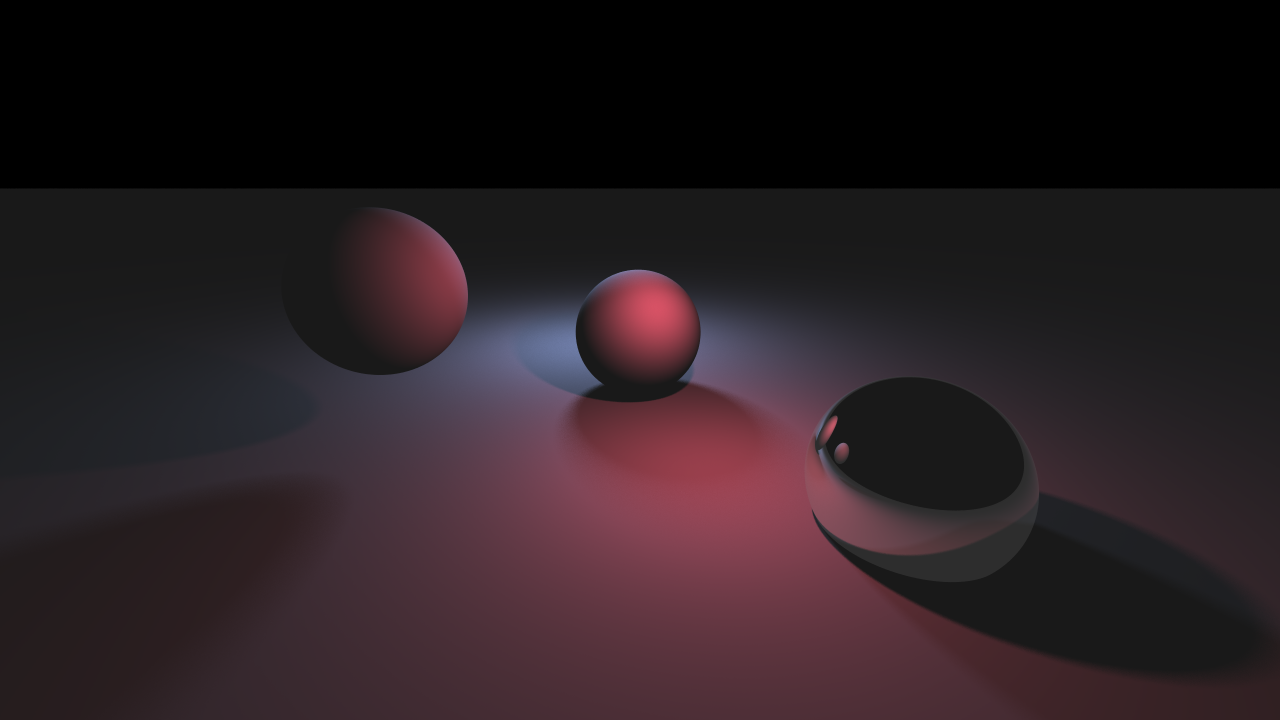
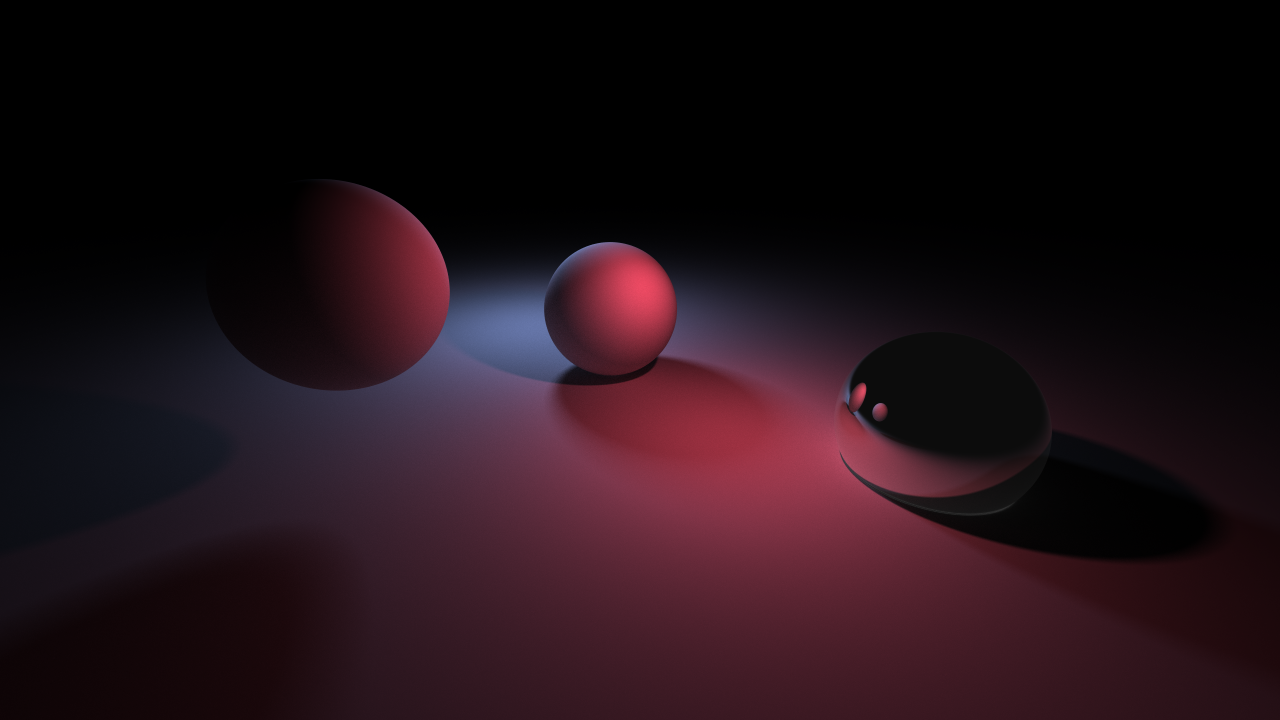
Add global illumination

diff --git a/src/tracey/graphics/shaders/shaders.cpp b/src/tracey/graphics/shaders/shaders.cpp
@@ -8,6 +8,7 @@
 #include "../../geometry/intersection.hpp"
 #include "../../engine/accelerator.hpp"
 #include "../shader_data.hpp"
+#include "../../util/math_util.hpp"
 
 namespace trc {
 
@@ -19,6 +20,58 @@ TRC_DEFINE_SHADER(ShaderPreview) {
 
     return glm::vec4 {glm::vec3 {value}, 1.f};
 }
+
+TRC_DEFINE_SHADER(ShaderLightDirect) {
+    glm::vec3 light = shader_data.accelerator->calc_light_influence(shader_data.pos, shader_data.normal, shader_data.rng);
+    return glm::vec4 {light, 1.f};
+}
+
+TRC_DEFINE_SHADER(ShaderDiffuseDirect) {
+    return shader_data.shader_pack->shader_light_direct->evaluate(shader_data);
+}
+
+TRC_DEFINE_SHADER(ShaderDiffuseIndirect) {
+    glm::vec3 color;
+
+    if (shader_data.ray.index > TRC_RAY_MAX_BOUNCES) color = glm::vec4 {0.f, 0.f, 0.f, 1.f};
+    else {
+        Ray diffuse_ray {
+            shader_data.pos,
+            math::random_dir_in_hemisphere(shader_data.normal, shader_data.rng),
+            TRC_DIFFUSE_RAY,
+            shader_data.ray.index + 1
+        };
+
+        std::optional<Intersection> isect = shader_data.accelerator->calc_intersection(diffuse_ray);
+        if (isect) {
+            ShaderData diffuse_shader_data {
+                isect.value().pos,
+                isect.value().normal,
+                isect.value().tex_coord,
+                shader_data.distance + isect.value().distance,
+                diffuse_ray,
+                shader_data.accelerator,
+                shader_data.shader_pack,
+                shader_data.rng
+            };
+            color = isect.value().shader->evaluate(diffuse_shader_data);
+        }
+        else color = glm::vec4 {0.f, 0.f, 0.f, 1.f};
+    }
+
+    return glm::vec4 {color, 1.f};
+}
+
+TRC_DEFINE_SHADER(ShaderDiffuse) {
+    if (glm::dot(shader_data.normal, -shader_data.ray.direction) < 0.f)
+        return glm::vec4 {glm::vec3 {0.f}, 1.f};
+
+    glm::vec3 direct = shader_data.shader_pack->shader_diffuse_direct->evaluate(shader_data).rgb();
+    glm::vec3 indirect = shader_data.shader_pack->shader_diffuse_indirect->evaluate(shader_data).rgb();
+    // if (shader_data.ray.type == TRC_CAMERA_RAY) direct *= 0.f;
+    return glm::vec4 {direct + indirect, 1.f};
+}
+
 
 TRC_DEFINE_SHADER(ShaderRed) {
     return glm::vec4 {1.f, 0.f, 0.f, 1.f};
@@ -52,12 +105,13 @@ TRC_DEFINE_SHADER(ShaderChecker) {
 TRC_DEFINE_SHADER(ShaderReflect) {
     glm::vec3 color;
 
-    if (shader_data.ray.index > TRC_RAY_MAX_BOUNCES) color = glm::vec4 {0.f, 0.f, 0.f, 1.f};
+    if (shader_data.ray.index > TRC_RAY_MAX_BOUNCES || glm::dot(shader_data.normal, -shader_data.ray.direction) < 0.f)
+        color = glm::vec4 {0.f, 0.f, 0.f, 1.f};
     else {
         Ray reflect_ray {
             shader_data.pos,
             glm::reflect(shader_data.ray.direction, shader_data.normal),
-            TRC_COMMON_RAY,
+            TRC_SPECULAR_RAY,
             shader_data.ray.index + 1
         };
 
@@ -78,7 +132,7 @@ TRC_DEFINE_SHADER(ShaderReflect) {
         else color = glm::vec4 {0.f, 0.f, 0.f, 1.f};
     }
 
-    color = color * 0.8f + 0.1f;
+    color = color * 0.9f + 0.05f;
     return glm::vec4 {color, 1.f};
 }
 

diff --git a/src/tracey/engine/engine.cpp b/src/tracey/engine/engine.cpp
@@ -16,13 +16,13 @@ namespace trc {
 Engine::Engine(UserConfig cfg) : cfg(cfg), error(0), preview_mode(true) {}
 
 int Engine::run() {
-    scene.add_object(std::unique_ptr<Shape>(new GroundPlane(0.f, shader_pack.shader_shadows.get())));
-    scene.add_object(std::unique_ptr<Shape>(new Sphere(glm::vec3 {0.f, 1.0f, 0.f}, 1.f, shader_pack.shader_shadows.get())));
-    scene.add_object(std::unique_ptr<Shape>(new Sphere(glm::vec3 {3.f, 2.0f, 2.f}, 1.f, shader_pack.shader_shadows.get())));
+    scene.add_object(std::unique_ptr<Shape>(new GroundPlane(0.f, shader_pack.shader_diffuse.get())));
+    scene.add_object(std::unique_ptr<Shape>(new Sphere(glm::vec3 {0.f, 1.0f, 0.f}, 1.f, shader_pack.shader_diffuse.get())));
+    scene.add_object(std::unique_ptr<Shape>(new Sphere(glm::vec3 {3.f, 2.0f, 2.f}, 1.f, shader_pack.shader_diffuse.get())));
     scene.add_object(std::unique_ptr<Shape>(new Sphere(glm::vec3 {2.f, 0.5f, -4.f}, 1.f, shader_pack.shader_reflect.get())));
     scene.add_light(std::unique_ptr<Light>(new PointLight(glm::vec3 {-2.f, 4.0f, 2.f}, glm::vec3 {0.6f, 0.7f, 1.0f}, 10.f, 0.5f)));
     scene.add_light(std::unique_ptr<Light>(new PointLight(glm::vec3 {2.f, 3.0f, -2.f}, glm::vec3 {1.0f, 0.3f, 0.4f}, 5.f, 0.1f)));
-    // scene.add_light(std::unique_ptr<Light>(new SunLight(glm::vec3 {-1.f, -1.f, -1.f}, glm::vec3 {1.f, 0.95f, 0.95f}, 0.9f, 2.f)));
+    // scene.add_light(std::unique_ptr<Light>(new SunLight(glm::vec3 {-1.f, -1.f, -1.f}, glm::vec3 {1.f, 0.95f, 0.95f}, 1.0f, 2.f)));
 
     accelerator = Accelerator {&scene};
     window_manager = WindowManager {cfg.window_size};
@@ -98,7 +98,7 @@ int Engine::render_image(glm::ivec2 image_size, int samples, std::mt19937 *seed_
     float sample_rate = 1.f;
 
     int sample = 0;
-    while (!input.r && !window_manager.window_should_close() && sample < samples) {
+    while (!input.i && !window_manager.window_should_close() && sample < samples) {
 
         ++sample;
         sampler.render_image_sample(
@@ -121,9 +121,10 @@ int Engine::render_image(glm::ivec2 image_size, int samples, std::mt19937 *seed_
             sample_rate
         );
 
-        if (sample >= samples) {
+        if (sample >= samples || input.r) {
             if (image_rw::write_png(sampler.get_image(), "render_result.png") == 0)
                 return_code = 1;
+            break;
         }
 
         this_t = glfwGetTime();

diff --git a/src/tracey/util/math_util.cpp b/src/tracey/util/math_util.cpp
@@ -1,0 +1,35 @@
+#include "math_util.hpp"
+
+namespace trc::math {
+
+float fast_inv_sqrt(float number) {
+    union {
+        float f;
+        uint32_t i;
+    } conv;
+
+    float x2;
+    const float threehalfs = 1.5F;
+
+    x2 = number * 0.5F;
+    conv.f = number;
+    conv.i = 0x5f3759df - (conv.i >> 1);
+    conv.f = conv.f * (threehalfs - (x2 * conv.f * conv.f));
+    return conv.f;
+}
+
+glm::vec3 random_dir_in_hemisphere(glm::vec3 normal, RNG *rng) {
+    std::normal_distribution distrib;
+
+    glm::vec3 dir {
+        distrib(*rng),
+        distrib(*rng),
+        distrib(*rng)
+    };
+
+    dir *= glm::sign(glm::dot(dir, normal));
+
+    return dir * fast_inv_sqrt(dir.x*dir.x + dir.y*dir.y * dir.z*dir.z);
+}
+
+} /* trc::math */

diff --git a/src/tracey/graphics/shader_pack.cpp b/src/tracey/graphics/shader_pack.cpp
@@ -5,6 +5,11 @@ namespace trc {
 ShaderPack::ShaderPack()
     : shader_default(std::unique_ptr<Shader>(new Shader())),
       shader_preview(std::unique_ptr<Shader>(new ShaderPreview())),
+      shader_light_direct(std::unique_ptr<Shader>(new ShaderLightDirect())),
+      shader_diffuse_direct(std::unique_ptr<Shader>(new ShaderDiffuseDirect())),
+      shader_diffuse_indirect(std::unique_ptr<Shader>(new ShaderDiffuseIndirect())),
+      shader_diffuse(std::unique_ptr<Shader>(new ShaderDiffuse())),
+
       shader_red(std::unique_ptr<Shader>(new ShaderRed())),
       shader_normal(std::unique_ptr<Shader>(new ShaderNormal())),
       shader_distance(std::unique_ptr<Shader>(new ShaderDistance())),

diff --git a/src/tracey/engine/console.cpp b/src/tracey/engine/console.cpp
@@ -85,7 +85,8 @@ void Console::print_render_info(float frequency, float delta_t, int sample, int 
         s << "Controls" << '\n';
         s << " ESC:          Quit" << '\n';
         s << " ENTER:        Toggle mouse focus" << '\n';
-        s << " R:            Stop render" << '\n';
+        s << " R:            Save rendered image" << '\n';
+        s << " I:            Interrupt render without saving" << '\n';
 
         clear();
         printf("%s\n", s.str().c_str());

diff --git a/src/tracey/graphics/shader_pack.hpp b/src/tracey/graphics/shader_pack.hpp
@@ -12,6 +12,10 @@ struct ShaderPack {
 
     std::unique_ptr<Shader> shader_default;
     std::unique_ptr<Shader> shader_preview;
+    std::unique_ptr<Shader> shader_light_direct;
+    std::unique_ptr<Shader> shader_diffuse_direct;
+    std::unique_ptr<Shader> shader_diffuse_indirect;
+    std::unique_ptr<Shader> shader_diffuse;
 
     std::unique_ptr<Shader> shader_red;
     std::unique_ptr<Shader> shader_normal;

diff --git a/src/tracey/engine/window_manager.cpp b/src/tracey/engine/window_manager.cpp
@@ -112,6 +112,8 @@ InputPackage WindowManager::handle_events() {
 
     auto key_r = std::find(key_history.begin(), key_history.end(), GLFW_KEY_R);
     pack.r = KEY_FOUND(key_r);
+    auto key_i = std::find(key_history.begin(), key_history.end(), GLFW_KEY_I);
+    pack.i = KEY_FOUND(key_i);
     auto key_p = std::find(key_history.begin(), key_history.end(), GLFW_KEY_P);
     pack.p = KEY_FOUND(key_p);
 

diff --git a/src/tracey/geometry/ray.hpp b/src/tracey/geometry/ray.hpp
@@ -3,7 +3,7 @@
 
 #include "../../lib/glm.hpp"
 
-#define TRC_RAY_CLIP_EPSILON 0.01f
+#define TRC_RAY_CLIP_EPSILON 0.001f
 #define TRC_RAY_MAX_BOUNCES 10
 
 namespace trc {
@@ -11,6 +11,8 @@ namespace trc {
 enum RayType {
     TRC_CAMERA_RAY,
     TRC_SHADOW_RAY,
+    TRC_DIFFUSE_RAY,
+    TRC_SPECULAR_RAY,
     TRC_COMMON_RAY
 };
 

diff --git a/src/tracey/util/math_util.hpp b/src/tracey/util/math_util.hpp
@@ -1,0 +1,15 @@
+#ifndef MATH_UTIL_HPP
+#define MATH_UTIL_HPP
+
+#include "../../lib/glm.hpp"
+#include "random.hpp"
+
+namespace trc::math {
+
+float fast_inv_sqrt(float number);
+
+glm::vec3 random_dir_in_hemisphere(glm::vec3 normal, RNG *rng);
+
+} /* trc::math */
+
+#endif /* end of include guard: MATH_UTIL_HPP */

diff --git a/src/tracey/graphics/shaders/shaders.hpp b/src/tracey/graphics/shaders/shaders.hpp
@@ -7,6 +7,10 @@
 namespace trc {
 
 TRC_DECLARE_SHADER(ShaderPreview)
+TRC_DECLARE_SHADER(ShaderLightDirect)
+TRC_DECLARE_SHADER(ShaderDiffuseDirect)
+TRC_DECLARE_SHADER(ShaderDiffuseIndirect)
+TRC_DECLARE_SHADER(ShaderDiffuse)
 
 TRC_DECLARE_SHADER(ShaderRed)
 TRC_DECLARE_SHADER(ShaderNormal)

diff --git a/src/tracey/engine/engine.hpp b/src/tracey/engine/engine.hpp
@@ -2,7 +2,7 @@
 #define ENGINE_HPP
 
 #include "../../lib/glm.hpp"
-#include "../random/random.hpp"
+#include "../util/random.hpp"
 
 #include "user_config.hpp"
 #include "../graphics/shader_pack.hpp"

diff --git a/src/tracey/engine/accelerator.hpp b/src/tracey/engine/accelerator.hpp
@@ -10,7 +10,7 @@
 #include "../geometry/intersection.hpp"
 #include "../geometry/ray.hpp"
 #include "scene.hpp"
-#include "../random/random.hpp"
+#include "../util/random.hpp"
 
 namespace trc {
 
